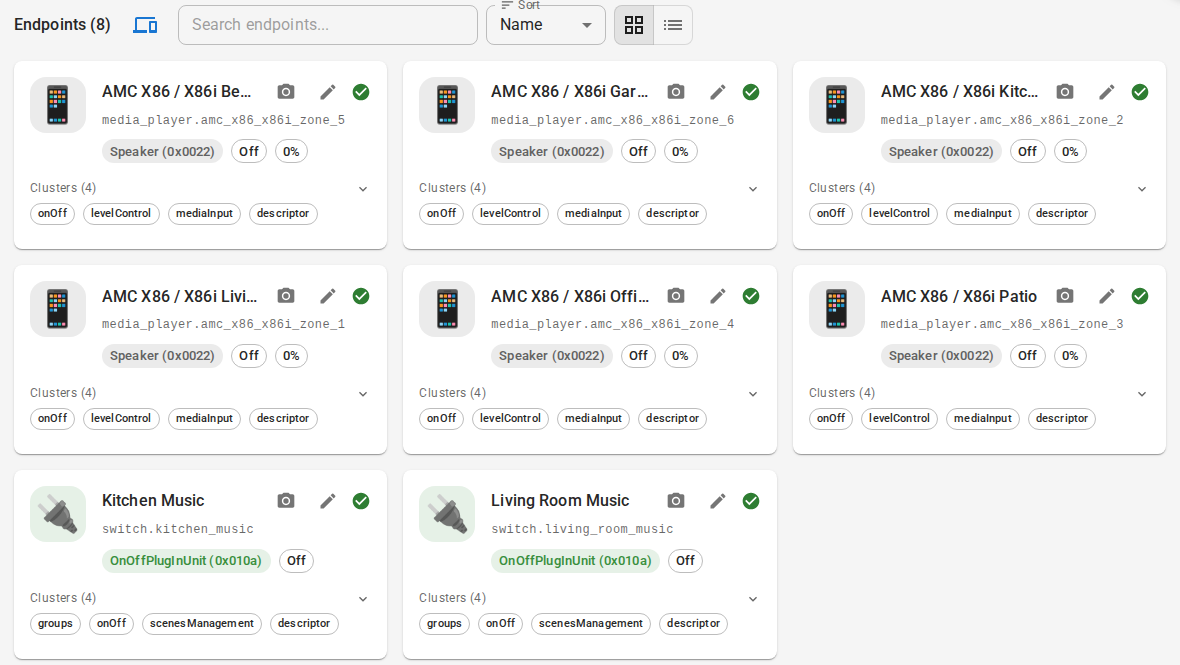
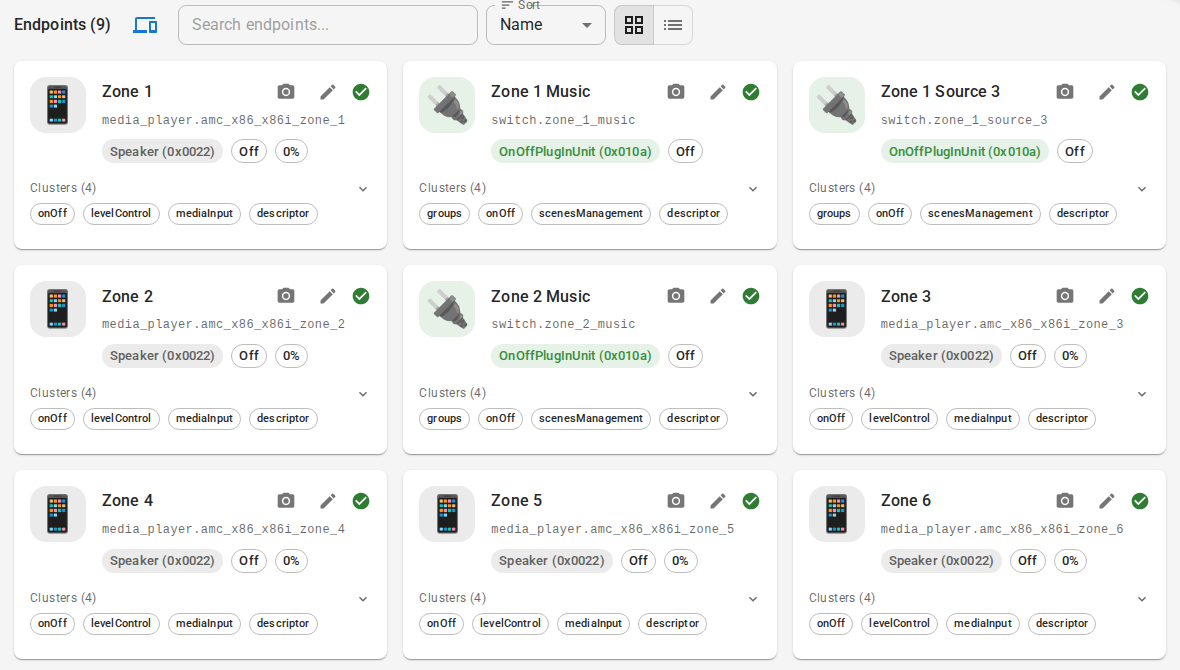
Docs: source switches for Google/Alexa; bridge filter by 'Matter' label
Google lists sources but can't select one, Alexa can't at all: a Template
switch per favourite (zone on + select source) shared as a Matter plug.
Bridge filter now platform audio_control + entity_label matter (any name);
restart the bridge after adding switches. Verified on haac-us: switch on ->
zone on, Source 3; off -> zone off; bridge lists it as a plug.

diff --git a/docs/matter.md b/docs/matter.md
@@ -12,7 +12,7 @@ amplifier device type yet, so each zone appears as a simple **speaker**.
 |---|---|---|---|---|
 | Zone on/off | ✅ | ✅ through a "Music" switch ([below](#alexa-add-a-music-switch-per-zone)) | ✅ | use [HomeKit Bridge](smart-home.md#apple-home-siri) instead |
 | Volume | ✅ | — | ✅ | |
-| Source | ❌ listed, but picking one fails (*Something went wrong*) | — | sent; the app may not show it | |
+| Source | ❌ listed, but picking one fails — use [source switches](#choose-a-source-one-switch-per-favourite) | — ([source switches](#choose-a-source-one-switch-per-favourite)) | sent; the app may not show it | |
 | Mute, bass/treble, group | — | — | — | |
 
 Each zone is shared as a Matter **Speaker** with power, volume and its list of sources.
@@ -60,8 +60,8 @@ community-made app that shares Home Assistant devices over Matter.
 Open **Matter Hub** from the sidebar and create a bridge:
 
 - **Name:** e.g. *Audio Control*. **Port:** keep **5540** — Alexa only finds bridges on 5540.
-- **Include:** *platform* `audio_control` (all your zones). For Alexa also *pattern*
-  `switch.*_music` (the switches below).
+- **Include:** *platform* `audio_control` (all your zones), and *entity label* `matter`
+  (the extra switches below — you give them the **Matter** label).
 - **Exclude:** *domain* `binary_sensor` (the connection status isn't something to control).
 - Turn on **Prefer entity registry name**, so zones are called *Living Room* rather than
   *AMC X86 / X86i Living Room* — shorter to say. Do this **before pairing**: once an app
@@ -69,7 +69,7 @@ Open **Matter Hub** from the sidebar and create a bridge:
 
 ![The bridge filters](assets/screenshots/matter-hub-filters.png)
 
-The bridge then lists every zone as a **Speaker** (and each "Music" switch as a **Plug**):
+The bridge then lists every zone as a **Speaker**, and each labelled switch as a **Plug**:
 
 ![Zones and switches on the bridge](assets/screenshots/matter-hub-endpoints.png)
 
@@ -81,8 +81,30 @@ The bridge then lists every zone as a **Speaker** (and each "Music" switch as a 
    entity ID is on its settings page (⚙).
 4. **Actions on turn on:** *Media player: Turn on* → your zone. **Actions on turn off:**
    *Media player: Turn off* → your zone. **Submit.**
+5. Open the new switch's settings (⚙) and add the label **Matter** (create it the first
+   time).
 
 Repeat for each zone you want Alexa to switch.
+
+## Choose a source: one switch per favourite
+
+Google Home lists a zone's sources but can't select one, and Alexa can't at all — so
+make a switch for each combination you use, like **Kitchen Spotify** or **Patio Radio**.
+Turning it on switches the zone on *and* picks the source; works in Google Home and
+Alexa ("Hey Google, turn on Kitchen Spotify").
+
+1. **Create helper → Template → Switch**, name it e.g. `Kitchen Spotify`.
+2. **Value template** (on while that zone plays that source):
+   `{{ is_state('media_player.YOUR_ZONE', 'on') and is_state_attr('media_player.YOUR_ZONE', 'source', 'Spotify') }}`
+3. **Actions on turn on:** *Media player: Turn on* → your zone, then
+   *Media player: Select source* → your zone, source `Spotify`.
+   **Actions on turn off:** *Media player: Turn off* → your zone. **Submit.**
+4. Add the label **Matter** to the switch.
+
+!!! note "New switches appear after a bridge restart"
+    After adding or labelling switches, restart the bridge (on its page: **⋮ →
+    Restart**). The apps then show the new plugs; names you set later aren't
+    picked up by an already-paired app.
 
 ## 3. Pair with your app
 

diff --git a/docs/index.md b/docs/index.md
@@ -70,7 +70,7 @@ Home Assistant talks to your amplifier through its **RS-232 control port** (a sm
 4. Depends on how the assistant classes the device.
 5. The zone's sources are sent over Matter by name (tested); whether the app shows them varies.
 6. Through one "Music" switch per zone — Alexa doesn't accept Matter speakers.
-7. Google Home lists the sources but shows *Something went wrong* when you pick one — it never sends the choice (tested). Google only supports input selection for TVs.
+7. Google Home lists the sources but shows *Something went wrong* when you pick one — it never sends the choice (tested). Google only supports input selection for TVs. Workaround: [one switch per favourite source](matter.md#choose-a-source-one-switch-per-favourite).
 
 ## Supported amplifiers
 
